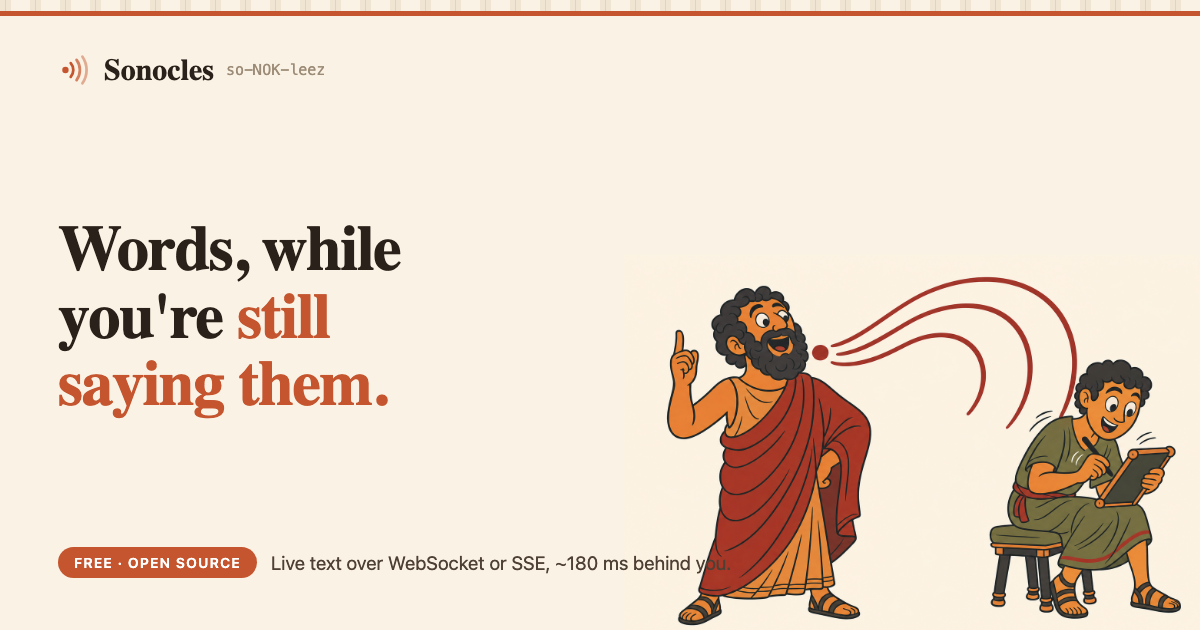
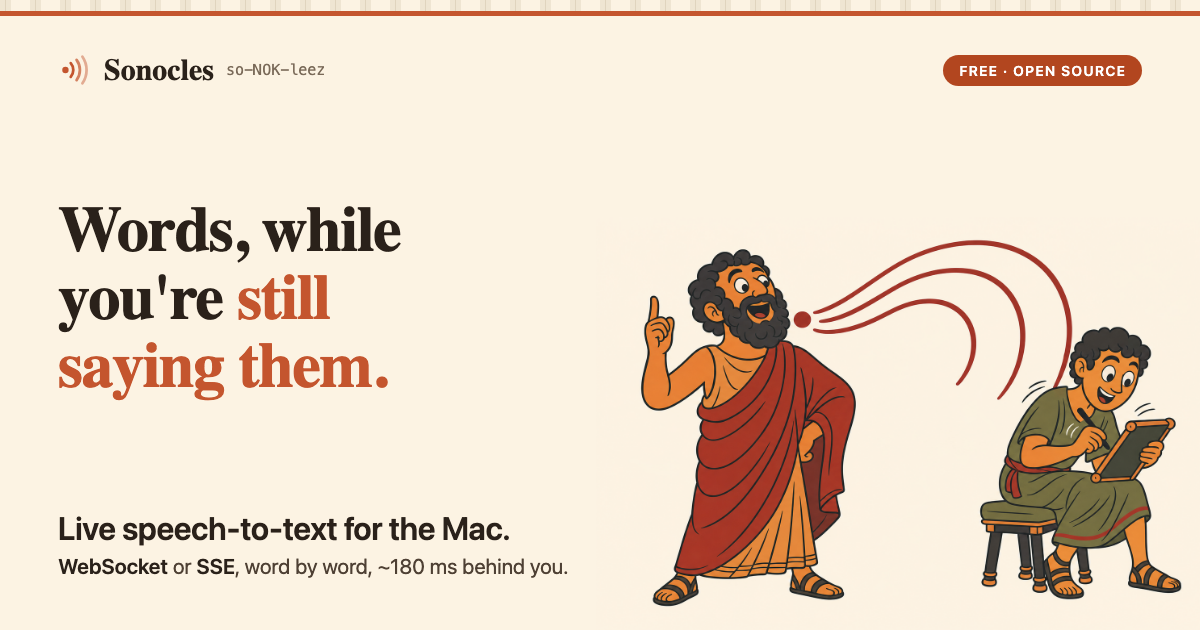
fix(site): the social card had a foot on the only line carrying information
Three defects, all of them only visible at the size the card is actually
seen at. A share unfurls at roughly 500px, so everything on a 1200x630 card
arrives at about 42% of its design size.

The subtitle was set at 19px, which lands around 8px in a timeline — the one
line naming the product category was the least readable thing on the card.
It is 32px now and says "Live speech-to-text for the Mac" outright, with the
protocol detail on a second line beneath it. The pill moved up beside the
wordmark, where it is not competing for width with the line doing the work.

The illustration sat under that subtitle and the philosopher's sandal landed
across "you". The text column is capped now and the art sized so the two
never share horizontal space: 108px between the nearest drawn pixel and the
nearest glyph. The art also hung 18px past the bottom edge, which sliced the
legs off the scribe's stool. It sits flush, 24px clear.

And the ground changed. flat-hero.png is opaque and its own ground is
#FCF3E3 against the site's #FAF2E4 — two levels, which is enough to draw a
visible vertical seam down the card at the image's left edge. Matching the
card to the art makes the rectangle disappear, and og.html says so, because
a future regeneration could move it again.

Same illustration, re-laid out. Nothing was regenerated.

Claude-Session: https://claude.ai/code/session_01LsMXhQ4sSujZdiWFoqpdj2

diff --git a/site/og.html b/site/og.html
@@ -6,15 +6,38 @@
   would either letterbox or cut the scribe out of frame, and the scribe is the
   half that makes the joke. This lays out the same elements at the right shape
   instead. Regenerate by screenshotting this at exactly 1200x630.
+
+  Three things here are load-bearing and were each a defect once:
+
+  1. The text column is capped (--col) and the art is sized so that the two
+     never share horizontal space. Previously the subtitle ran full width and
+     the philosopher's sandal landed on the word "you", which is a poor place
+     to put a foot.
+  2. The art sits flush to the bottom edge, not past it. It used to hang
+     18px below, which sliced the legs off the scribe's stool.
+  3. The ground is --card-ground, not --stone. flat-hero.png is opaque and its
+     own ground is #FCF3E3, two levels off the site's #FAF2E4 — enough to draw
+     a visible vertical seam down the card at the image's left edge. Matching
+     the card to the art makes the rectangle disappear. Keep them equal; if the
+     illustration is ever regenerated, re-measure it.
+
+  The subtitle carries the category because the headline deliberately does not.
+  A card is read at about 500px wide in a chat timeline, so nothing here is set
+  below 21px — at that width it renders around 9px.
 -->
 <html lang="en"><head><meta charset="utf-8">
 <link href="https://fonts.googleapis.com/css2?family=Fraunces:opsz,wght,SOFT,WONK@9..144,500;9..144,600;9..144,700&family=Instrument+Sans:wght@400;500;600&family=IBM+Plex+Mono:wght@400&display=swap" rel="stylesheet">
 <style>
-  :root { --stone:#FAF2E4; --ink:#2A211A; --ink-soft:#4E4034; --script:#9C8C77; --terracotta:#C4552E; }
+  :root {
+    --stone:#FAF2E4; --card-ground:#FCF3E3;
+    --ink:#2A211A; --ink-soft:#4E4034; --script:#7A6A59;
+    --terracotta:#C4552E; --terracotta-deep:#B2461F;
+    --col:580px;
+  }
   * { box-sizing:border-box; margin:0; }
-  body { width:1200px; height:630px; background:var(--stone); overflow:hidden;
+  body { width:1200px; height:630px; background:var(--card-ground); overflow:hidden;
     font-family:'Instrument Sans',system-ui,sans-serif; position:relative; }
-  .colonnade { position:absolute; top:0; left:0; right:0; height:16px;
+  .colonnade { position:absolute; top:0; left:0; right:0; height:16px; z-index:3;
     background:repeating-linear-gradient(90deg,#EFE5D2 0 5px,#E0D4BE 5px 6px,#EFE5D2 6px 11px,transparent 11px 30px); }
   .colonnade::after { content:''; position:absolute; left:0; right:0; bottom:0; height:5px; background:var(--terracotta); }
   .pad { padding:52px 58px; height:100%; display:flex; flex-direction:column; justify-content:space-between; position:relative; z-index:2; }
@@ -22,14 +45,23 @@
   .brand .name { font-family:'Fraunces',serif; font-weight:700; font-size:30px; color:var(--ink);
     font-variation-settings:'SOFT' 40,'WONK' 1; }
   .brand .say { font-family:'IBM Plex Mono',monospace; font-size:15px; color:var(--script); }
+  /* Pushed to the top right, where the art has not started yet. It used to sit
+     in the footer competing for width with the line that does the real work. */
+  .pill { margin-left:auto; background:var(--terracotta-deep); color:#fff; font-size:14px; font-weight:600;
+    letter-spacing:.08em; text-transform:uppercase; padding:7px 16px; border-radius:999px; }
   h1 { font-family:'Fraunces',serif; font-weight:600; font-size:64px; line-height:1.06;
     color:var(--ink); letter-spacing:-.022em; font-variation-settings:'SOFT' 30,'WONK' 1; max-width:14ch; }
   h1 em { font-style:normal; color:var(--terracotta); }
-  .foot { display:flex; align-items:center; gap:14px; }
-  .pill { background:var(--terracotta); color:#fff; font-size:14px; font-weight:600;
-    letter-spacing:.08em; text-transform:uppercase; padding:7px 16px; border-radius:999px; }
-  .meta { color:var(--ink-soft); font-size:19px; }
-  .art { position:absolute; right:-14px; bottom:-18px; width:590px; z-index:1; }
+  .foot { max-width:var(--col); }
+  .cat { font-size:32px; font-weight:600; color:var(--ink); letter-spacing:-.012em; line-height:1.15; }
+  .meta { color:var(--ink-soft); font-size:21px; margin-top:7px; }
+  .meta b { font-weight:600; color:var(--ink); }
+  /* 620 wide on a 3:2 source is 413 tall, so the top edge lands at y=217. The
+     illustration carries its own margin, so the leftmost drawn pixel is at
+     x=641 rather than at the box edge — that is the number that has to clear
+     the text, not the box. Verified by scanning the render, not by trusting
+     this comment. */
+  .art { position:absolute; right:-16px; bottom:0; width:620px; z-index:1; display:block; }
 </style></head>
 <body>
   <div class="colonnade"></div>
@@ -44,11 +76,12 @@
       </svg>
       <span class="name">Sonocles</span>
       <span class="say">so-NOK-leez</span>
+      <span class="pill">Free · Open source</span>
     </div>
     <h1>Words, while you're <em>still saying them.</em></h1>
     <div class="foot">
-      <span class="pill">Free · Open source</span>
-      <span class="meta">Live text over WebSocket or SSE, ~180&nbsp;ms behind you.</span>
+      <p class="cat">Live speech-to-text for the Mac.</p>
+      <p class="meta"><b>WebSocket</b> or <b>SSE</b>, word by word, ~180&nbsp;ms behind you.</p>
     </div>
   </div>
 </body></html>
